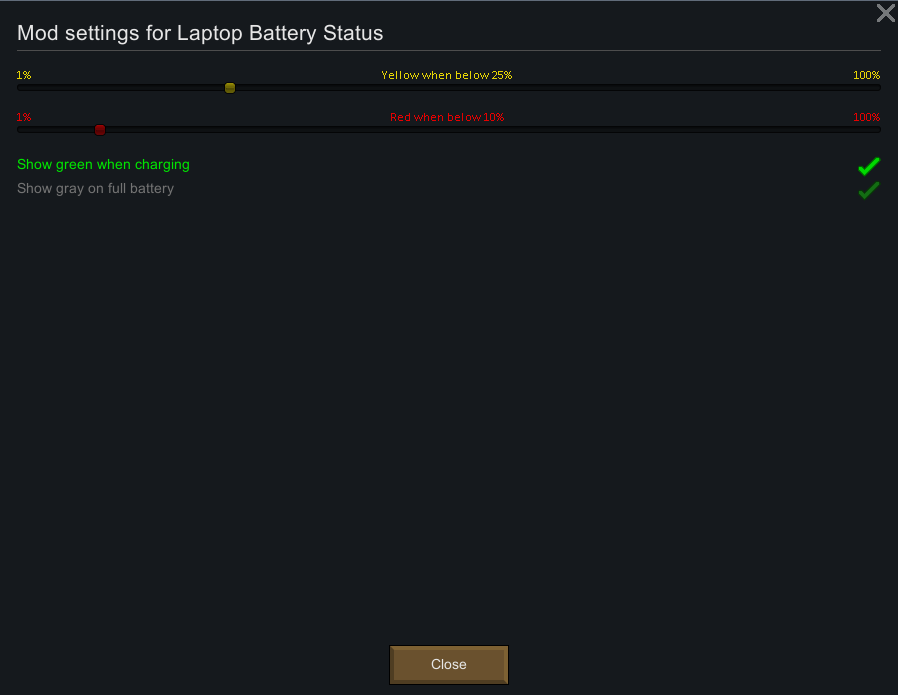
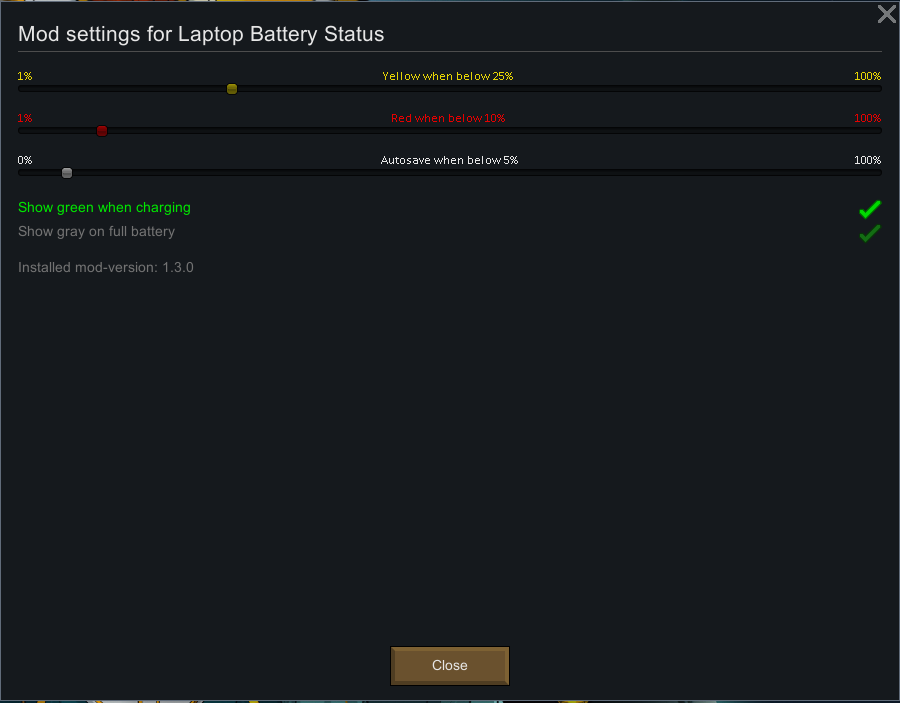
Added optional autosave on defined battery-percent

diff --git a/Source/LaptopBatteryStatus/HarmonyPatches.cs b/Source/LaptopBatteryStatus/HarmonyPatches.cs
@@ -13,6 +13,7 @@ namespace LaptopBatteryStatus;
 internal class HarmonyPatches
 {
     private static float cachedBatteryPercent;
+    private static float lastBatteryPercent;
     private static BatteryStatus cachedBatteryStatus;
     private static int timeToUpdate;
 
@@ -20,7 +21,7 @@ internal class HarmonyPatches
     {
         cachedBatteryPercent = SystemInfo.batteryLevel;
         cachedBatteryStatus = SystemInfo.batteryStatus;
-        timeToUpdate = 400;
+        timeToUpdate = 0;
         var harmony = new Harmony("Mlie.LaptopBatteryStatus");
         harmony.Patch(AccessTools.Method(typeof(GlobalControlsUtility), nameof(GlobalControlsUtility.DoDate)), null,
             new HarmonyMethod(typeof(HarmonyPatches), nameof(BatteryStatus_NearDatePostfix)));
@@ -35,6 +36,7 @@ internal class HarmonyPatches
         }
 
         timeToUpdate = 400;
+        lastBatteryPercent = cachedBatteryPercent;
 #if DEBUG
         cachedBatteryPercent -= 0.05f;
         if (cachedBatteryPercent <= 0)
@@ -45,10 +47,21 @@ internal class HarmonyPatches
         var values = Enum.GetValues(typeof(BatteryStatus));
         var random = new Random();
         cachedBatteryStatus = (BatteryStatus)values.GetValue(random.Next(values.Length));
+        if (LaptopBatteryStatusMod.settings.autosaveOn > cachedBatteryPercent &&
+            LaptopBatteryStatusMod.settings.autosaveOn < lastBatteryPercent)
+        {
+            GameDataSaveLoader.SaveGame("BS.Filename".Translate(cachedBatteryPercent.ToStringPercent()));
+        }
+
         return;
 #endif
         cachedBatteryPercent = SystemInfo.batteryLevel;
         cachedBatteryStatus = SystemInfo.batteryStatus;
+        if (LaptopBatteryStatusMod.settings.autosaveOn > cachedBatteryPercent &&
+            LaptopBatteryStatusMod.settings.autosaveOn < lastBatteryPercent)
+        {
+            GameDataSaveLoader.SaveGame("BS.Filename".Translate(cachedBatteryPercent.ToStringPercent()));
+        }
     }
 
     private static void BatteryStatus_NearDatePostfix(ref float curBaseY)

diff --git a/Source/LaptopBatteryStatus/LaptopBatteryStatusMod.cs b/Source/LaptopBatteryStatus/LaptopBatteryStatusMod.cs
@@ -47,6 +47,14 @@ internal class LaptopBatteryStatusMod : Mod
         settings.warningOn = Math.Max(settings.criticalOn, settings.warningOn);
 
         listing_Standard.Gap();
+        var autosaveRect = listing_Standard.GetRect(30);
+        GUI.color = startColor;
+        settings.autosaveOn = Widgets.HorizontalSlider(autosaveRect, settings.autosaveOn, 0f, 1f,
+            false,
+            "BS.autosaveOn".Translate(settings.autosaveOn.ToStringPercent()), 0f.ToStringPercent(),
+            1f.ToStringPercent());
+
+        listing_Standard.Gap();
         GUI.color = Color.green;
         listing_Standard.CheckboxLabeled("BS.greenoncharge".Translate(), ref settings.greenCharging);
         GUI.color = Color.gray;

diff --git a/Source/LaptopBatteryStatus/LaptopBatteryStatusSettings.cs b/Source/LaptopBatteryStatus/LaptopBatteryStatusSettings.cs
@@ -4,6 +4,7 @@ namespace LaptopBatteryStatus;
 
 internal class LaptopBatteryStatusSettings : ModSettings
 {
+    public float autosaveOn;
     public float criticalOn = 0.1f;
     public bool grayFull = true;
     public bool greenCharging = true;
@@ -14,6 +15,7 @@ internal class LaptopBatteryStatusSettings : ModSettings
         base.ExposeData();
         Scribe_Values.Look(ref warningOn, "warningOn", 0.25f);
         Scribe_Values.Look(ref criticalOn, "criticalOn", 0.1f);
+        Scribe_Values.Look(ref autosaveOn, "autosaveOn");
         Scribe_Values.Look(ref greenCharging, "greenCharging", true);
         Scribe_Values.Look(ref grayFull, "grayFull", true);
     }

diff --git a/README.md b/README.md
@@ -7,6 +7,8 @@ Shows your laptop battery status in the game, hopefully this will help you save 
 Changes color based on laptop percent batterypower left, limits configurable in the mod-settings.
 Also options for colors based on if the battery is currently charging or is already fully charged.
 
+If you use this mod on a computer without a battery, it will just show ”No battery” instead.
+
 Idea by: JukeboxTheGhoul
 
 ![Image](https://i.imgur.com/O0IIlYj.png)
